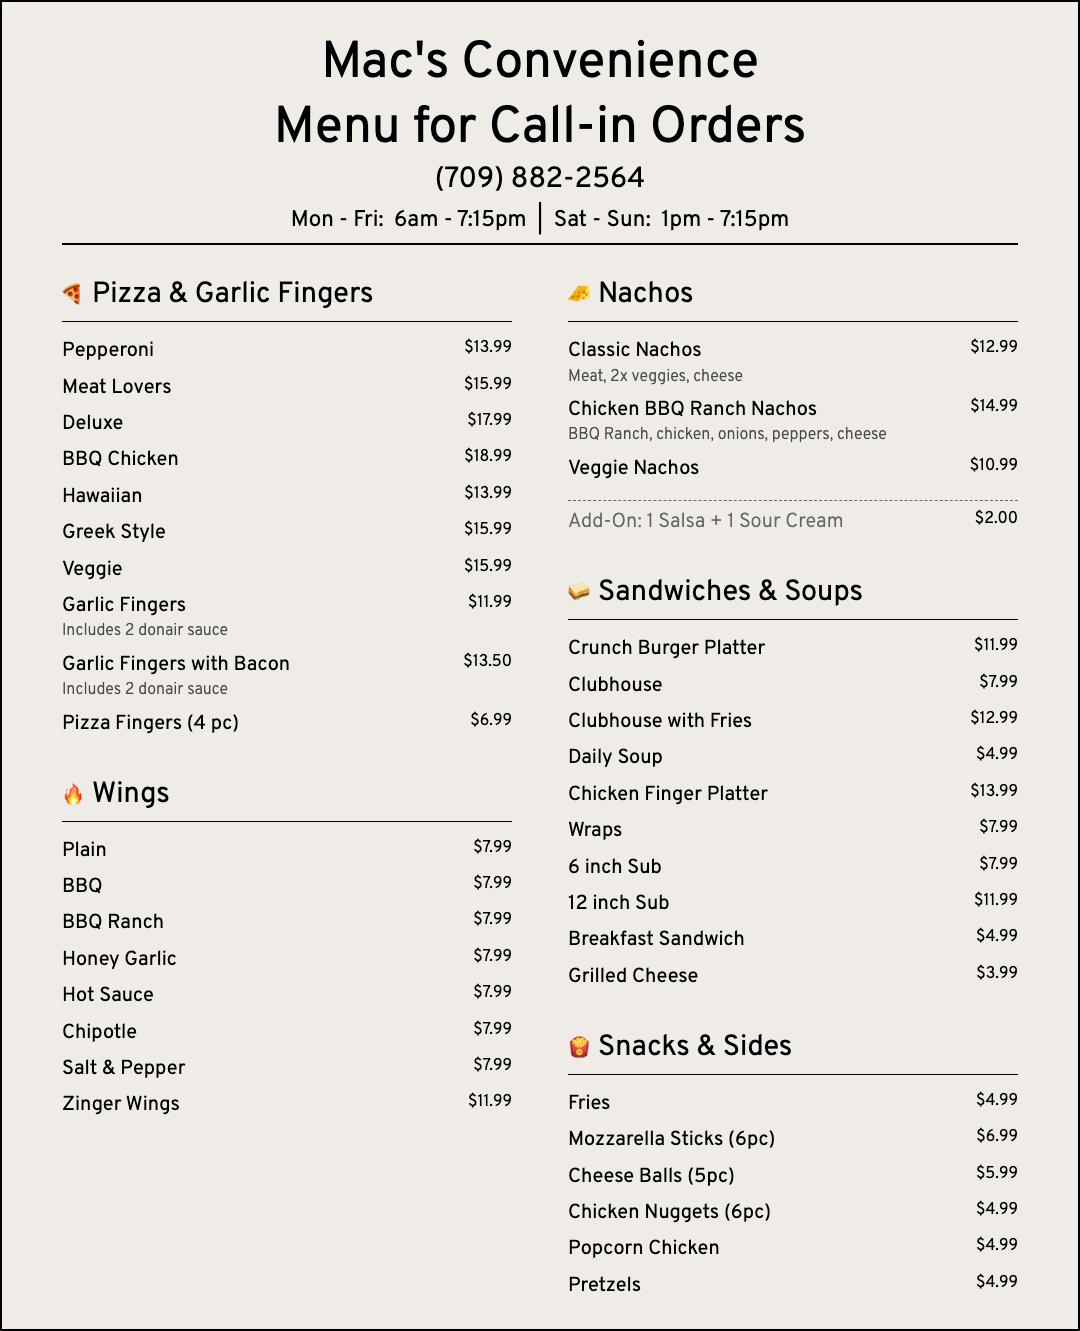
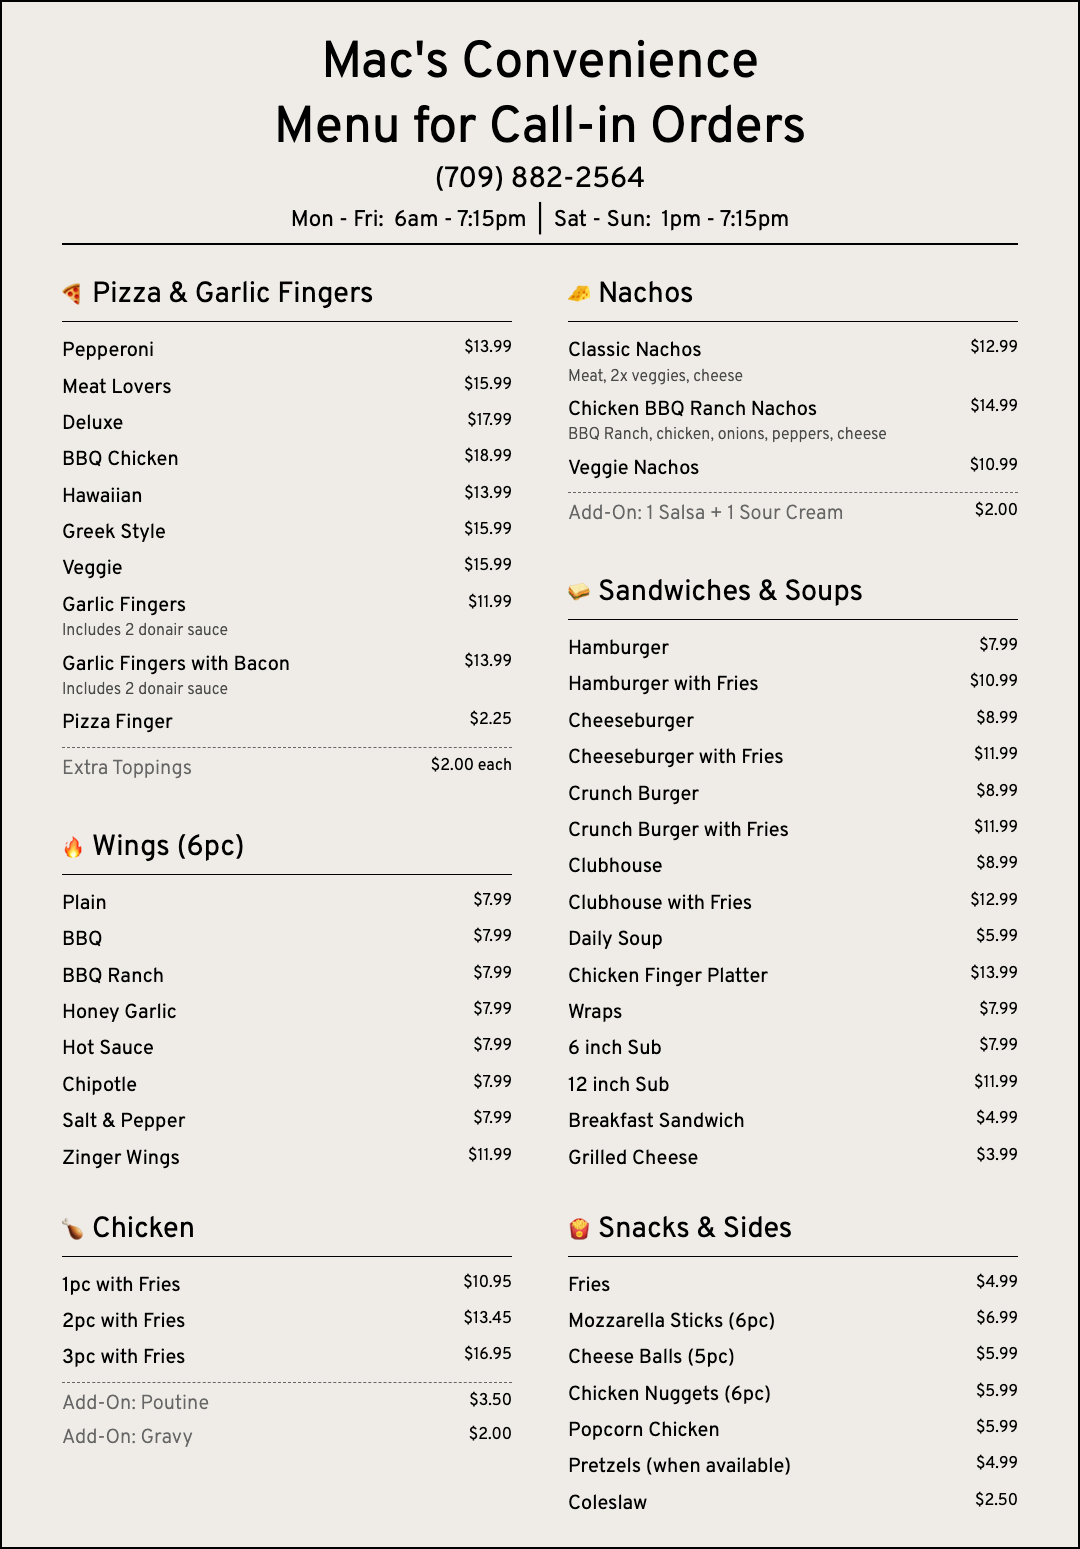
changes to menu

diff --git a/menu/menu.html b/menu/menu.html
@@ -66,17 +66,23 @@
                                 <span class="item-name">Garlic Fingers with Bacon</span>
                                 <span class="item-description">Includes 2 donair sauce</span>
                             </div>
-                            <span class="item-price">$13.50</span>
+                            <span class="item-price">$13.99</span>
                         </div>
                         <div class="menu-item">
-                            <span class="item-name">Pizza Fingers (4 pc)</span>
-                            <span class="item-price">$6.99</span>
+                            <span class="item-name">Pizza Finger</span>
+                            <span class="item-price">$2.25</span>
+                        </div>
+                        <div class="addon-section">
+                            <div class="menu-item">
+                                <span class="item-name addon-name">Extra Toppings</span>
+                                <span class="item-price">$2.00 each</span>
+                            </div>
                         </div>
                     </div>
                 </section>
                 <section class="menu-section">
                     <h2 class="section-title">
-                        <span class="icon">🔥</span> Wings
+                        <span class="icon">🔥</span> Wings (6pc)
                     </h2>
                     <hr class="section-divider">
                     <div class="menu-items">
@@ -114,6 +120,36 @@
                         </div>
                     </div>
                 </section>
+                <section class="menu-section">
+                    <h2 class="section-title">
+                        <span class="icon">🍗</span> Chicken
+                    </h2>
+                    <hr class="section-divider">
+                    <div class="menu-items">
+                        <div class="menu-item">
+                            <span class="item-name">1pc with Fries</span>
+                            <span class="item-price">$10.95</span>
+                        </div>
+                        <div class="menu-item">
+                            <span class="item-name">2pc with Fries</span>
+                            <span class="item-price">$13.45</span>
+                        </div>
+                        <div class="menu-item">
+                            <span class="item-name">3pc with Fries</span>
+                            <span class="item-price">$16.95</span>
+                        </div>
+                        <div class="addon-section">
+                            <div class="menu-item">
+                                <span class="item-name addon-name">Add-On: Poutine</span>
+                                <span class="item-price">$3.50</span>
+                            </div>
+                            <div class="menu-item">
+                                <span class="item-name addon-name">Add-On: Gravy</span>
+                                <span class="item-price">$2.00</span>
+                            </div>
+                        </div>
+                    </div>
+                </section>
             </div>
 
             <!-- Right Column -->
@@ -146,11 +182,11 @@
                             </div>
                             <span class="item-price">$10.99</span>
                         </div>
-                        <div class="menu-item addon-item">
-                            <div class="item-content">
+                        <div class="addon-section">
+                            <div class="menu-item">
                                 <span class="item-name addon-name">Add-On: 1 Salsa + 1 Sour Cream</span>
+                                <span class="item-price">$2.00</span>
                             </div>
-                            <span class="item-price">$2.00</span>
                         </div>
                     </div>
                 </section>
@@ -162,12 +198,32 @@
                     <hr class="section-divider">
                     <div class="menu-items">
                         <div class="menu-item">
-                            <span class="item-name">Crunch Burger Platter</span>
+                            <span class="item-name">Hamburger</span>
+                            <span class="item-price">$7.99</span>
+                        </div>
+                        <div class="menu-item">
+                            <span class="item-name">Hamburger with Fries</span>
+                            <span class="item-price">$10.99</span>
+                        </div>
+                        <div class="menu-item">
+                            <span class="item-name">Cheeseburger</span>
+                            <span class="item-price">$8.99</span>
+                        </div>
+                        <div class="menu-item">
+                            <span class="item-name">Cheeseburger with Fries</span>
+                            <span class="item-price">$11.99</span>
+                        </div>
+                        <div class="menu-item">
+                            <span class="item-name">Crunch Burger</span>
+                            <span class="item-price">$8.99</span>
+                        </div>
+                        <div class="menu-item">
+                            <span class="item-name">Crunch Burger with Fries</span>
                             <span class="item-price">$11.99</span>
                         </div>
                         <div class="menu-item">
                             <span class="item-name">Clubhouse</span>
-                            <span class="item-price">$7.99</span>
+                            <span class="item-price">$8.99</span>
                         </div>
                         <div class="menu-item">
                             <span class="item-name">Clubhouse with Fries</span>
@@ -175,7 +231,7 @@
                         </div>
                         <div class="menu-item">
                             <span class="item-name">Daily Soup</span>
-                            <span class="item-price">$4.99</span>
+                            <span class="item-price">$5.99</span>
                         </div>
                         <div class="menu-item">
                             <span class="item-name">Chicken Finger Platter</span>
@@ -225,15 +281,19 @@
                         </div>
                         <div class="menu-item">
                             <span class="item-name">Chicken Nuggets (6pc)</span>
-                            <span class="item-price">$4.99</span>
+                            <span class="item-price">$5.99</span>
                         </div>
                         <div class="menu-item">
                             <span class="item-name">Popcorn Chicken</span>
+                            <span class="item-price">$5.99</span>
+                        </div>
+                        <div class="menu-item">
+                            <span class="item-name">Pretzels (when available)</span>
                             <span class="item-price">$4.99</span>
                         </div>
                         <div class="menu-item">
-                            <span class="item-name">Pretzels</span>
-                            <span class="item-price">$4.99</span>
+                            <span class="item-name">Coleslaw</span>
+                            <span class="item-price">$2.50</span>
                         </div>
                     </div>
                 </section>

diff --git a/menu/menu.css b/menu/menu.css
@@ -133,10 +133,13 @@ body {
     color: #000;
 }
 
-.addon-item {
+.addon-section {
     border-top: 1px dashed #666;
     padding-top: 0.5rem;
-    margin-top: 0.5rem;
+    padding-bottom: 0.5rem;
+    display: flex;
+    flex-direction: column;
+    gap: 0.5rem;
 }
 
 .addon-name {
